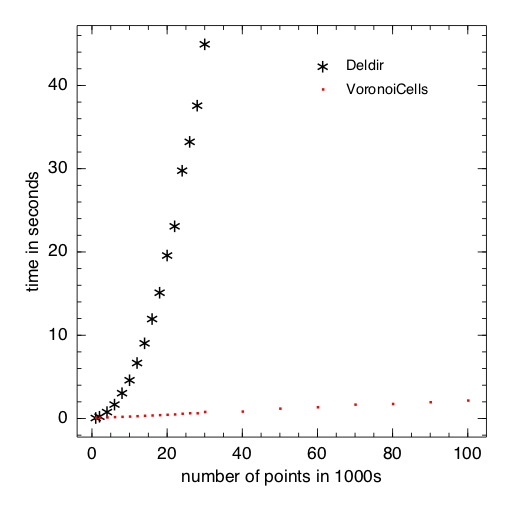
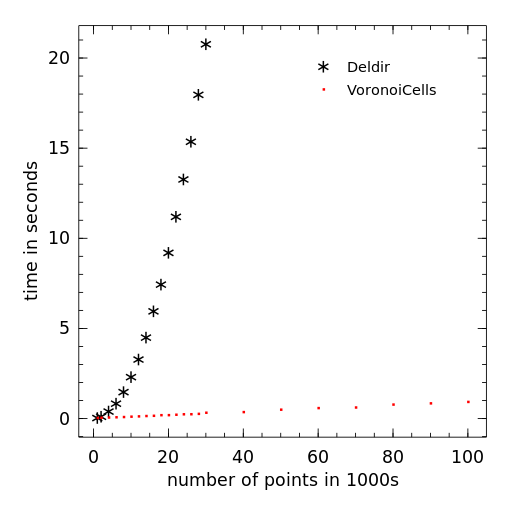
VoronoiCells comparison on faster computer

diff --git a/README.md b/README.md
@@ -81,10 +81,10 @@ julia> versioninfo()
 Julia Version 0.4.0
 Commit 0ff703b (2015-10-08 06:20 UTC)
 Platform Info:
-  System: Darwin (x86_64-apple-darwin14.5.0)
-  CPU: Intel(R) Core(TM)2 Duo CPU     P7350  @ 2.00GHz
+  System: Linux (x86_64-linux-gnu)
+  CPU: Intel(R) Core(TM) i7-3720QM CPU @ 2.60GHz
   WORD_SIZE: 64
-  BLAS: libopenblas (USE64BITINT DYNAMIC_ARCH NO_AFFINITY Penryn)
+  BLAS: libopenblas (USE64BITINT DYNAMIC_ARCH NO_AFFINITY Sandybridge)
   LAPACK: libopenblas64_
   LIBM: libopenlibm
   LLVM: libLLVM-3.3
